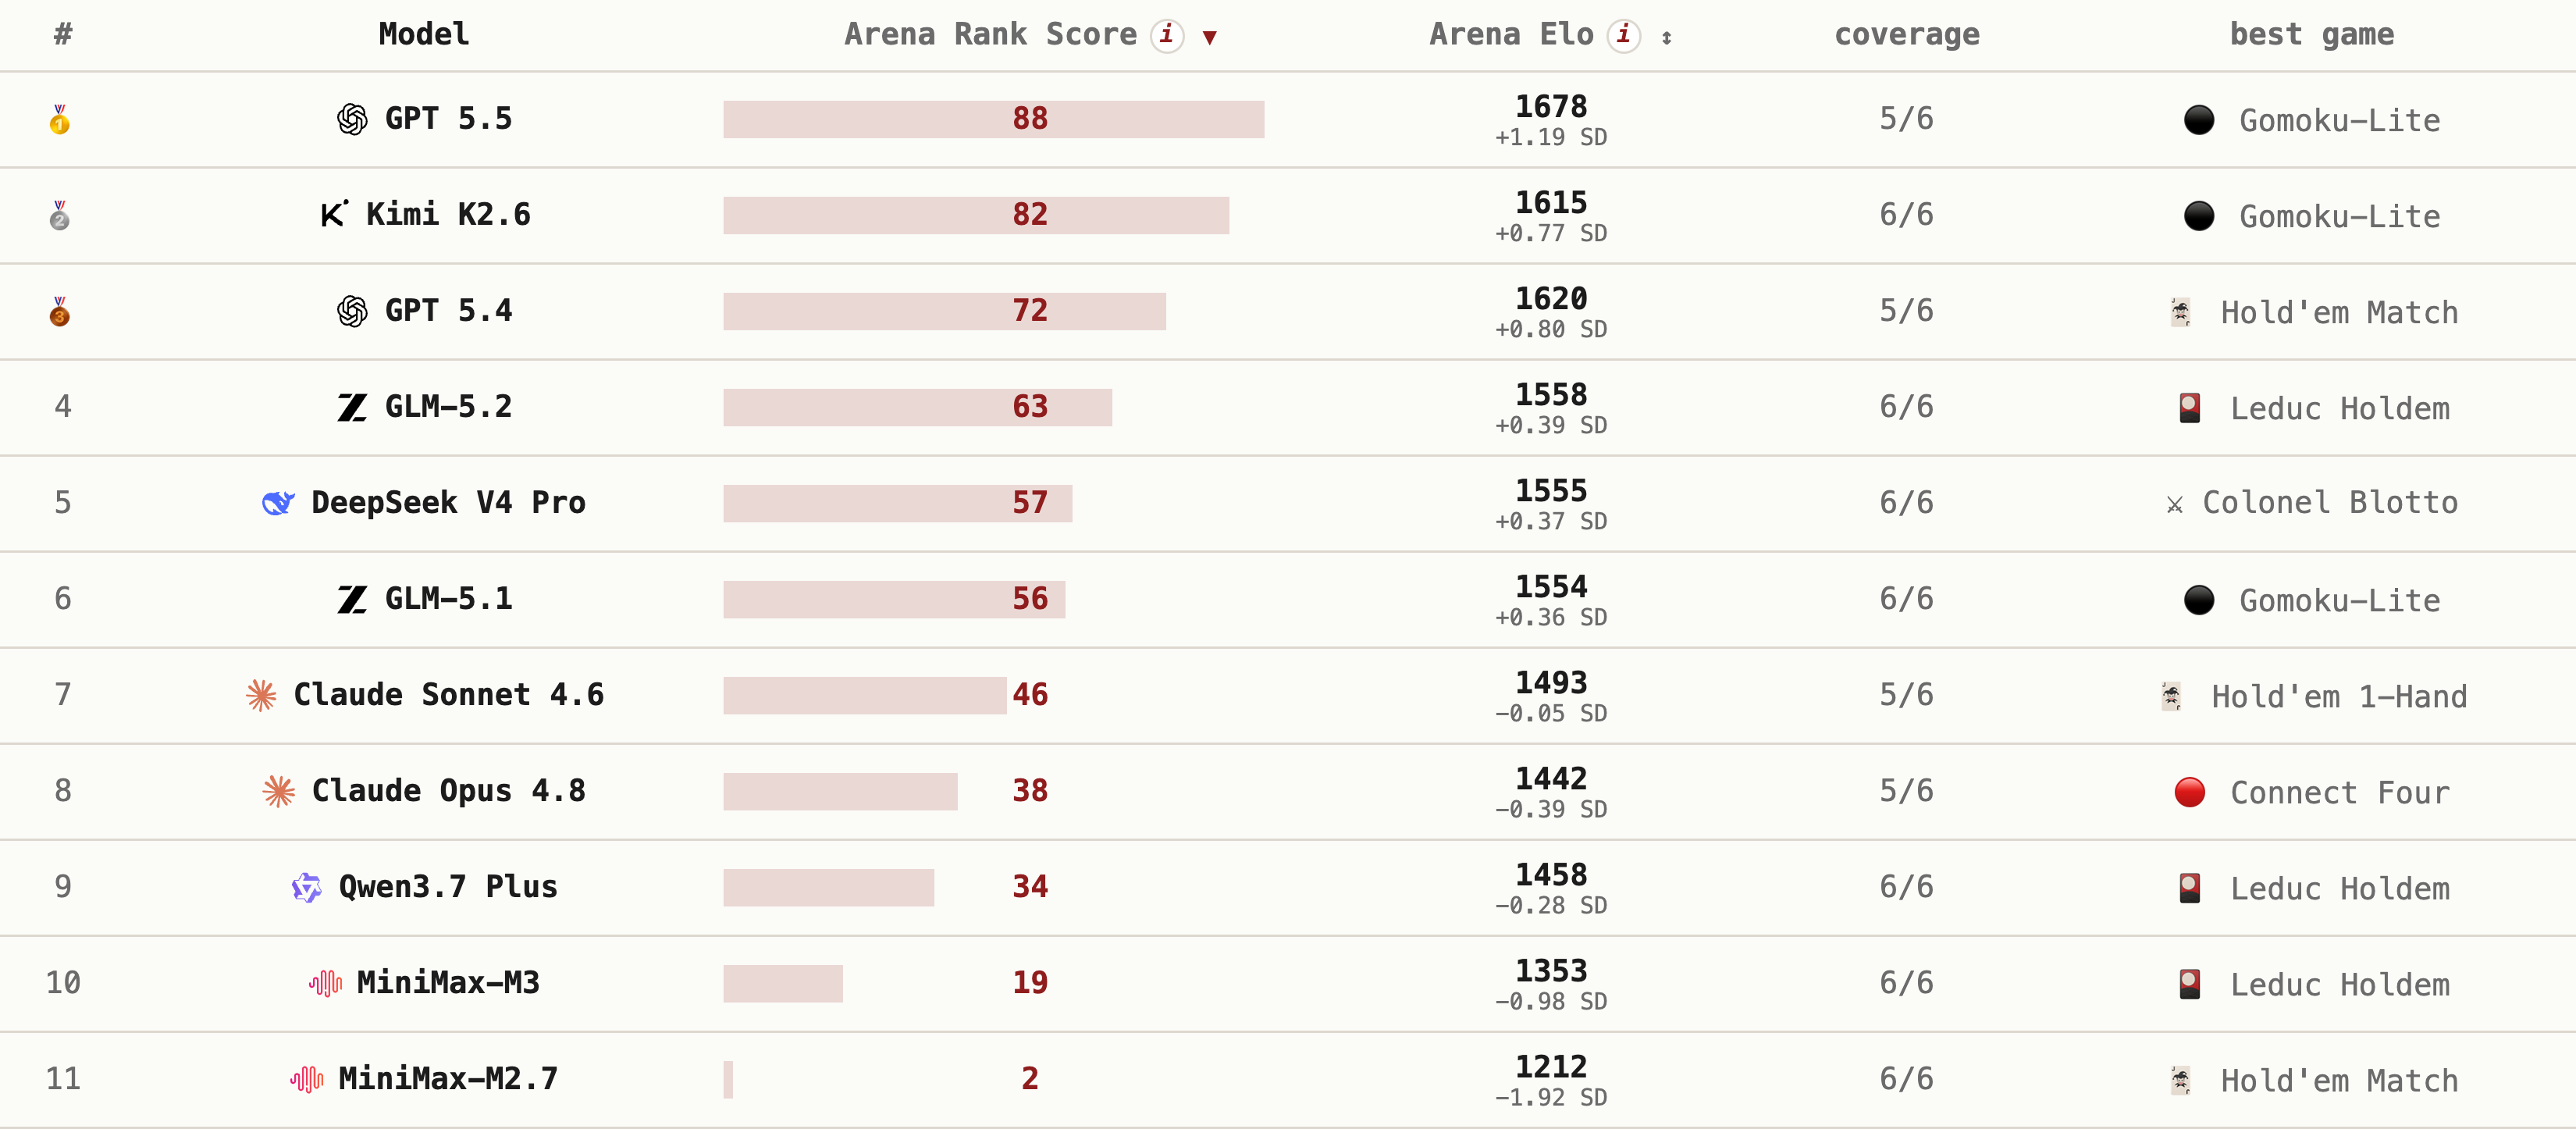
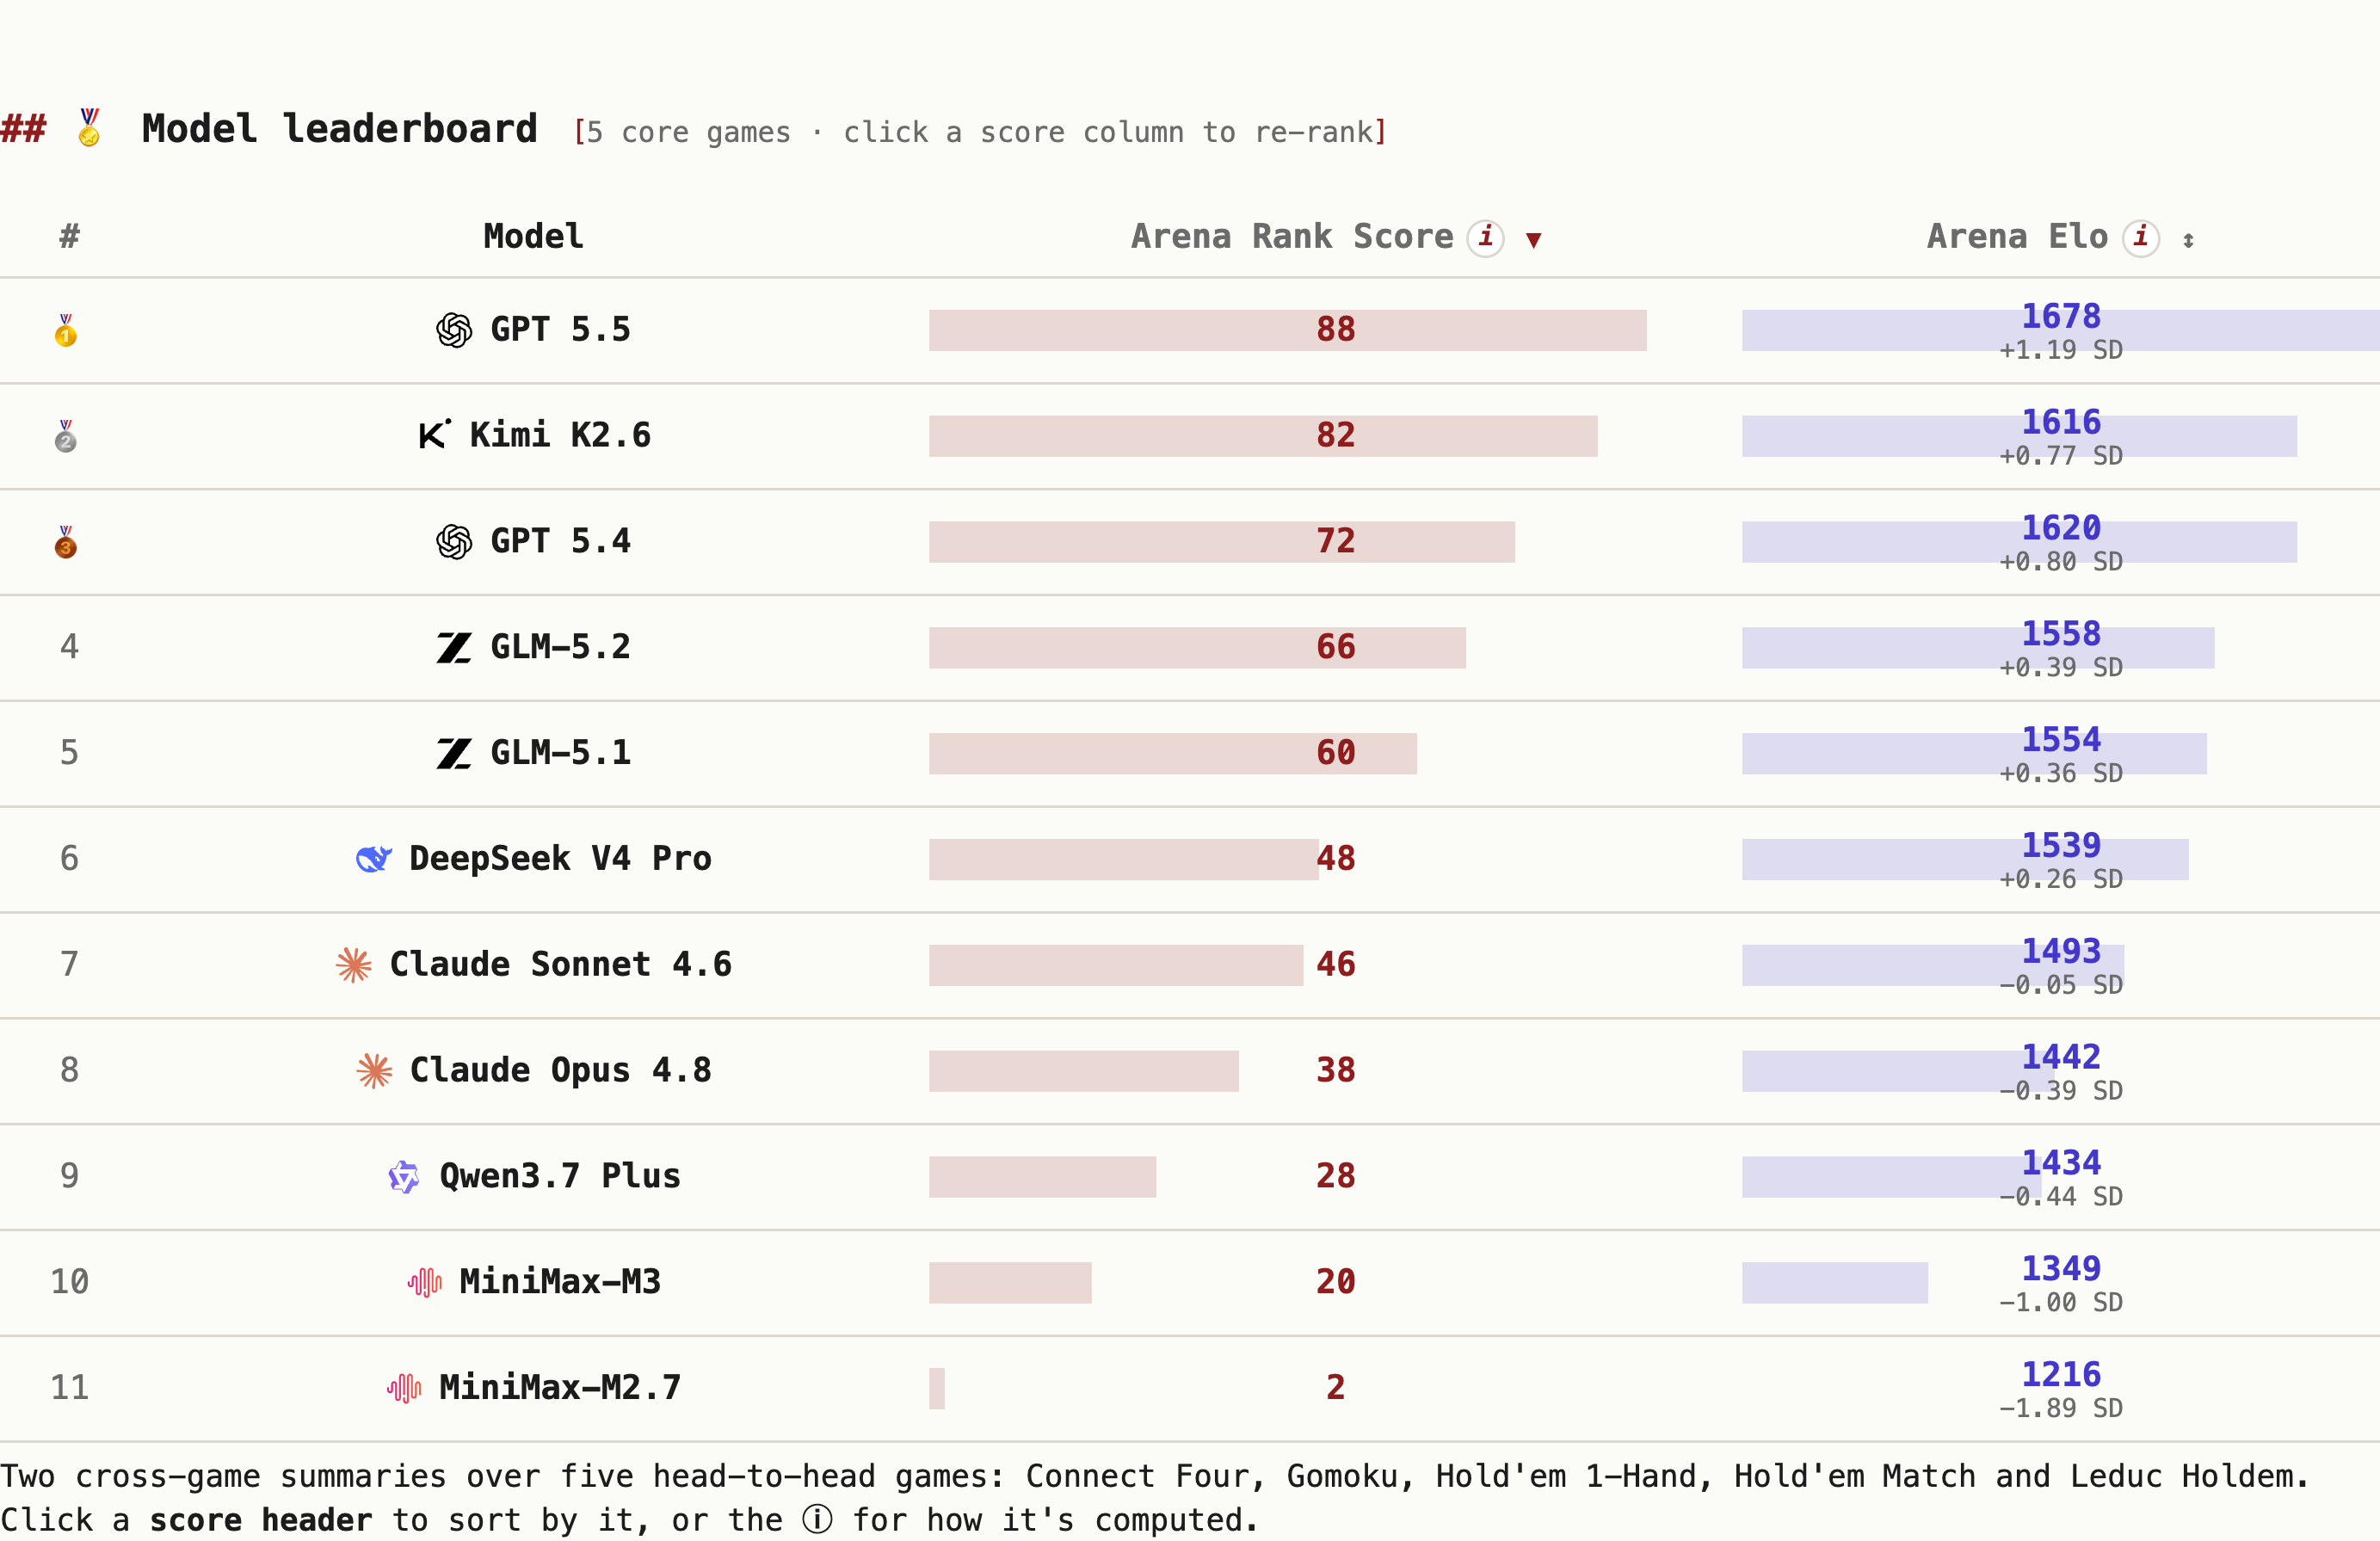
docs(slides): sync deck to 8-game arena and reworked overview
- drop Hold'em Table (5p) from the game list; total is now 8 games
- re-capture leaderboard.png for the new overview (5 core games, Arena Elo
  as a bar, coverage/best-game columns removed)
- Gomoku behavior slide: replace the chart with a per-model table adding
  win-rate alongside win-take / block / late-blunder, so defense-vs-win-rate
  is legible and the GPT models are easy to locate

diff --git a/slides/index.html b/slides/index.html
@@ -117,7 +117,7 @@
     <div class="fig" style="height:380px;margin-top:6px;"><img src="assets/leaderboard.png" alt="AI Battle Arena cross-game leaderboard"></div>
     <div class="meta" style="margin-top:1em;">Haizhong Zheng · 07/02/2026</div>
   </div>
-  <aside class="notes">One sentence: we benchmark LLMs by having them play 9 adversarial games head-to-head under one fair pipeline, then explain *why* they win or lose.</aside>
+  <aside class="notes">One sentence: we benchmark LLMs by having them play 8 adversarial games head-to-head under one fair pipeline, then explain *why* they win or lose.</aside>
 </section>
 
 <!-- S2 — Why adversarial games -->
@@ -142,7 +142,7 @@
       </ul>
     </div>
   </div>
-  <div class="callout">→ We built an arena where models play <b>9 games</b> head-to-head under <b>one identical pipeline</b>, so results are directly comparable.</div>
+  <div class="callout">→ We built an arena where models play <b>8 games</b> head-to-head under <b>one identical pipeline</b>, so results are directly comparable.</div>
   <aside class="notes">Frame the gap: existing evals measure what a model knows; games measure how it decides against a reacting opponent.</aside>
 </section>
 
@@ -166,7 +166,6 @@
         <tr><td>Leduc Hold'em</td><td class="dim">imperfect</td></tr>
         <tr><td>Hold'em 1-Hand</td><td class="dim">imperfect</td></tr>
         <tr><td>Hold'em Match</td><td class="dim">imperfect</td></tr>
-        <tr><td>Hold'em Table (5p)</td><td class="dim">imperfect</td></tr>
         <tr><td>Blackjack (vs dealer)</td><td class="dim">imperfect</td></tr>
         <tr><td>Connect Four</td><td class="dim">perfect</td></tr>
         <tr><td>Gomoku-Lite</td><td class="dim">perfect</td></tr>
@@ -241,11 +240,22 @@
 <section>
   <div class="kicker">Case study · Gomoku · behavior</div>
   <h2>Offense is solved — defense decides</h2>
-  <div class="fig" style="height:300px;"><img src="assets/gomoku_tac.png" alt="win-take / block / late blunders"></div>
-  <ul>
-    <li><b>win-take</b> (converting an available five) is <b>~saturated, 86–100%</b> — everyone grabs the win; <b>block %</b> and <b>late-game blunders</b> fan out wide, so skill lives in <b>defense</b></li>
-    <li>On the sparse 9×9, weak models' late-blunder rate balloons to <b>~43%</b>; overall a threat is missed <b>12.8%</b> of the time</li>
-  </ul>
+  <table class="t" style="max-width:840px;margin:0 auto;">
+    <tr><th>model</th><th class="r">win%</th><th class="r">win-take%</th><th class="r">block%</th><th class="r">late-blunder%</th></tr>
+    <tr><td>Kimi K2.6</td><td class="r">69</td><td class="r dim">100</td><td class="r pos">75</td><td class="r pos">23</td></tr>
+    <tr><td><b>GPT 5.5</b></td><td class="r">68</td><td class="r dim">99</td><td class="r pos">80</td><td class="r pos">22</td></tr>
+    <tr><td>GLM-5.1</td><td class="r">61</td><td class="r dim">94</td><td class="r">68</td><td class="r">32</td></tr>
+    <tr><td>GLM-5.2</td><td class="r">59</td><td class="r dim">96</td><td class="r">67</td><td class="r">33</td></tr>
+    <tr><td>DeepSeek V4 Pro</td><td class="r">58</td><td class="r dim">98</td><td class="r">68</td><td class="r">32</td></tr>
+    <tr><td><b>GPT 5.4</b></td><td class="r">55</td><td class="r dim">99</td><td class="r pos">73</td><td class="r">33</td></tr>
+    <tr><td>Claude Opus 4.8</td><td class="r">53</td><td class="r dim">92</td><td class="r">67</td><td class="r">38</td></tr>
+    <tr><td>Claude Sonnet 4.6</td><td class="r">50</td><td class="r dim">98</td><td class="r">65</td><td class="r">40</td></tr>
+    <tr><td>Qwen3.7 Plus</td><td class="r">38</td><td class="r dim">93</td><td class="r">60</td><td class="r">49</td></tr>
+    <tr><td>MiniMax-M3</td><td class="r">27</td><td class="r dim">89</td><td class="r neg">50</td><td class="r neg">61</td></tr>
+    <tr><td>GPT-OSS 120B</td><td class="r">18</td><td class="r dim">87</td><td class="r neg">43</td><td class="r neg">68</td></tr>
+    <tr><td>MiniMax-M2.7</td><td class="r">17</td><td class="r dim">90</td><td class="r neg">47</td><td class="r neg">70</td></tr>
+  </table>
+  <div class="callout"><b>win-take is saturated (87–100%)</b> — everyone grabs an available five. What fans out is <b>defense</b>: <b>block%</b> and <b>late-game blunders</b> track win-rate almost 1:1. <b>GPT 5.5 is the field's best blocker</b> (80%, #2); GPT 5.4 sits mid-pack. A threat is missed <b>12.8%</b> of the time overall.</div>
 </section>
 <section>
   <div class="kicker">Case study · Gomoku · in-depth</div>